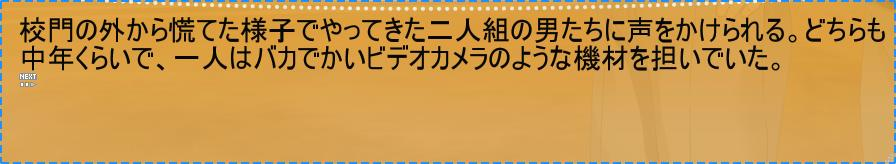
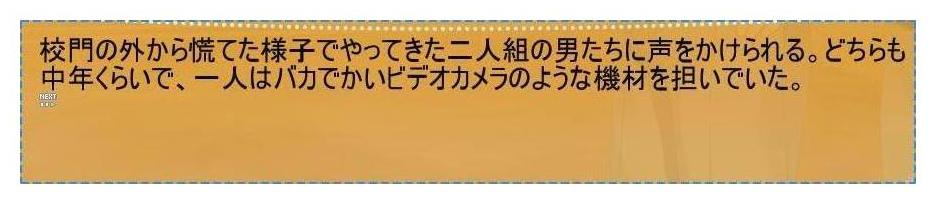
修复文字换行问题

diff --git a/translator/ocr/dango.py b/translator/ocr/dango.py
@@ -85,10 +85,11 @@ def resultSortTD(ocr_result, language) :
             text += val["Words"]
             filter_words_list.append(val)
 
+        # 获取字宽
+        word_width = val["Coordinate"]["LowerRight"][1] - val["Coordinate"]["UpperRight"][1]
         if language == "ENG":
             word_width = val["Coordinate"]["LowerRight"][1] - val["Coordinate"]["UpperRight"][1] + 3
-        else :
-            word_width = val["Coordinate"]["LowerRight"][1] - val["Coordinate"]["UpperRight"][1] - 3
+
         new_words_list.append({
             "Coordinate": {
                 "UpperLeft": [x1, y1],
@@ -203,6 +204,7 @@ def dangoOCR(object, test=False) :
     url = object.config["nodeURL"]
     language = object.config["language"]
     showTranslateRow = object.config["showTranslateRow"]
+    branchLineUse = object.config["BranchLineUse"]
     if language == "JAP" and showTranslateRow == "True":
         language = "Vertical_JAP"
     if test :
@@ -237,6 +239,7 @@ def dangoOCR(object, test=False) :
     message = res.get("Message", "")
     ocr_result = res.get("Data", [])
     if code == 0 :
+        # 如果开启了贴字翻译就去掉白边
         if object.config["drawImageUse"] :
             try :
                 # 去掉白边
@@ -256,11 +259,42 @@ def dangoOCR(object, test=False) :
                     ocr_result[index]["Coordinate"]["LowerLeft"] = [LowerLeft[0]-10, LowerLeft[1]-10]
             except Exception :
                 object.logger.error(message)
+
+        content = ""
+        # 竖向翻译
         if language == "Vertical_JAP" :
             content, ocr_result = resultSortMD(ocr_result, language)
+            if object.config["drawImageUse"] :
+                object.ocr_result = ocr_result
+
+        # 横向翻译
         else :
-            content, ocr_result = resultSortTD(ocr_result, language)
-        object.ocr_result = ocr_result
+            # 贴字翻译采用文本聚类
+            if object.config["drawImageUse"] :
+                # 开启了自动换行
+                if branchLineUse :
+                    for index, val in enumerate(ocr_result) :
+                        # 获取字宽
+                        word_width = val["Coordinate"]["LowerRight"][1] - val["Coordinate"]["UpperRight"][1]
+                        if language == "ENG":
+                            word_width += 3
+                        ocr_result[index]["WordWidth"] = int(word_width)
+                        # 自动换行
+                        if val != ocr_result[-1] :
+                            content += val["Words"] + "\n"
+                        else :
+                            content += val["Words"]
+                else :
+                    content, ocr_result = resultSortTD(ocr_result, language)
+                object.ocr_result = ocr_result
+            # 普通翻译文字直接拼接
+            else :
+                for val in ocr_result :
+                    # 开启了自动换行
+                    if branchLineUse and val != ocr_result[-1] :
+                        content += val["Words"] + "\n"
+                    else :
+                        content += val["Words"]
         return True, content
     else :
         if code == -3 :

diff --git a/translator/all.py b/translator/all.py
@@ -49,7 +49,7 @@ class Webdriver(QObject) :
         try:
             # 使用谷歌浏览器
             option = webdriver.ChromeOptions()
-            option.add_argument("--headless")
+            #option.add_argument("--headless")
             self.browser = webdriver.Chrome(executable_path="./config/tools/chromedriver.exe",
                                             service_log_path="nul",
                                             options=option)
@@ -344,8 +344,6 @@ class Webdriver(QObject) :
     # 彩云翻译
     def caiyun(self, content) :
 
-        # 彩云翻译不能识别换行符
-        content = content.replace("\n", "  ")
         try :
             # 清空翻译框
             if self.content :
@@ -360,7 +358,7 @@ class Webdriver(QObject) :
                 # 提取翻译信息
                 try :
                     # 提取翻译信息
-                    text = self.browser.find_element_by_xpath('//*[@id="texttarget"]/p/span').text
+                    text = self.browser.find_element_by_xpath('//*[@id="texttarget"]').text
                     if text :
                         self.content = text
                         return self.content
@@ -384,7 +382,7 @@ class Webdriver(QObject) :
             if self.content :
                 self.browserClickTimeout('/html[1]/body[1]/c-wiz[1]/div[1]/div[2]/c-wiz[1]/div[2]/c-wiz[1]/div[1]/div[2]/div[2]/c-wiz[1]/div[1]/div[1]/div[1]/span[1]/button[1]/div[2]')
             # 输入要翻译的文本
-            self.browser.find_element_by_xpath('//*[@id="yDmH0d"]/c-wiz/div/div[2]/c-wiz/div[2]/c-wiz/div[1]/div[2]/div[2]/c-wiz[1]/span/span/div/textarea').send_keys(content)
+            self.browser.find_element_by_xpath('//*[@id="yDmH0d"]/c-wiz/div/div[2]/c-wiz/div[2]/c-wiz/div[1]/div[2]/div[3]/c-wiz[1]/span/span/div/textarea').send_keys(content)
 
             start = time.time()
             while True :
@@ -396,9 +394,8 @@ class Webdriver(QObject) :
                         self.browser.find_element_by_xpath('//*[@id="yDmH0d"]/c-wiz/div/div[2]/c-wiz/div[2]/c-wiz/div[1]/div[2]/div[2]/c-wiz[2]/div[4]/div[2]/button/span').click()
                     except Exception :
                         pass
-                    text = self.browser.find_element_by_xpath('//*[@id="yDmH0d"]/c-wiz/div/div[2]/c-wiz/div[2]/c-wiz/div[1]/div[2]/div[2]/c-wiz[2]/div[5]/div/div[1]').text
+                    text = self.browser.find_element_by_xpath('//*[@id="yDmH0d"]/c-wiz/div/div[2]/c-wiz/div[2]/c-wiz/div[1]/div[2]/div[3]/c-wiz[2]/div[6]/div/div[1]').text
                     if text :
-                        text = text.replace("\n", "")
                         self.content = text
                         return self.content
                 except Exception :

diff --git a/translator/api.py b/translator/api.py
@@ -176,14 +176,12 @@ def tencent(sentence, secret_id, secret_key, logger):
 # 私人彩云翻译
 def caiyun(sentence, token, logger) :
 
-    # 彩云翻译不能识别换行符
-    sentence = sentence.replace("\n", "  ")
     if not token :
         return "私人彩云: 还未注册私人彩云API, 不可使用"
 
     url = "http://api.interpreter.caiyunai.com/v1/translator"
     payload = {
-        "source": [sentence],
+        "source": sentence.split("\n"),
         "trans_type": "auto2zh",
         "request_id": "demo",
         "detect": True,
@@ -195,10 +193,16 @@ def caiyun(sentence, token, logger) :
     proxies = {"http": None, "https": None}
     try:
         response = requests.request("POST", url, data=json.dumps(payload), headers=headers, proxies=proxies, timeout=5)
-        result = json.loads(response.text)['target'][0]
+        result = json.loads(response.text)['target']
 
     except Exception:
         logger.error(format_exc())
         result = "私人彩云: 我抽风啦!"
 
-    return result
+    text = ""
+    for word in result :
+        text += word
+        if word != result[-1] :
+            text += "\n"
+
+    return text

diff --git a/utils/translater.py b/utils/translater.py
@@ -116,7 +116,8 @@ class TranslaterProcess(QThread) :
     # 横排-气泡框抠字
     def drawRectTD(self, ocr_result, words):
 
-        for index, word in enumerate(words.split("\n")):
+        for index, word in enumerate(words.split("\n")) :
+            print(word)
             ocr_result[index]["Words"] = word
 
         image = Image.open(IMAGE_PATH)
@@ -208,6 +209,7 @@ class TranslaterProcess(QThread) :
                 continue
             result = result.replace(val[0], val[1])
 
+        result = result.strip()
         self.display_signal.emit(result, self.trans_type)
 
         # 翻译结果帖字
